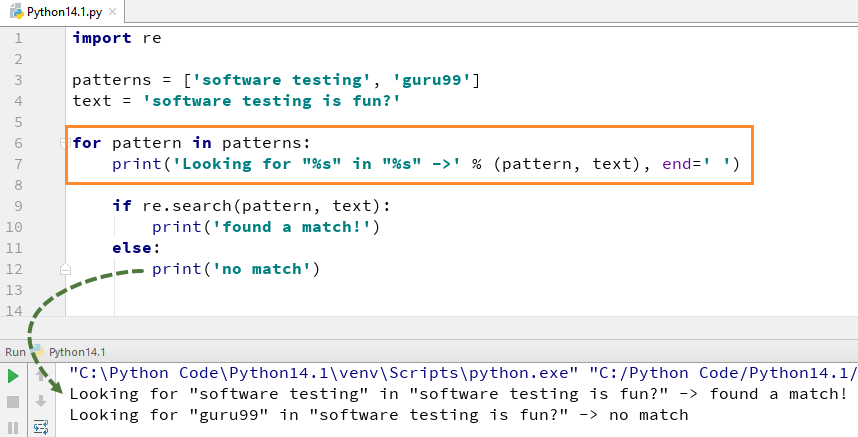
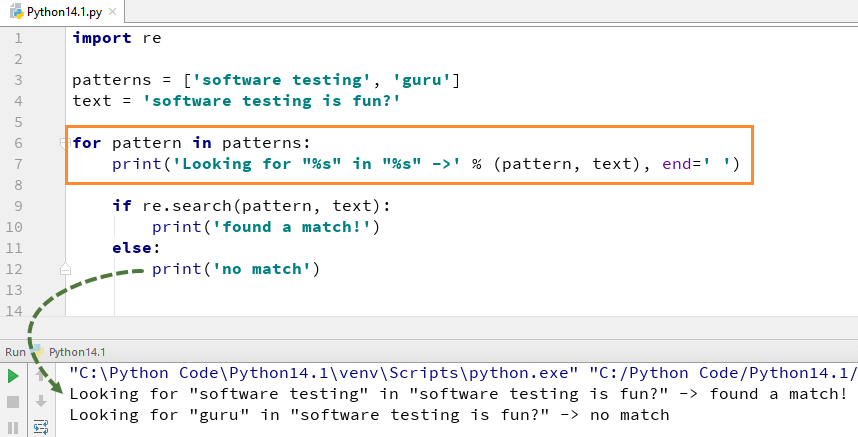
updated images and post

Changed region(s): [[0.2727, 0.9222, 0.7879, 0.9817], [0.5152, 0.1487, 0.5455, 0.2082]]

diff --git a/_posts/python/basictutorials/2019-09-30-Pythonlesson16.html b/_posts/python/basictutorials/2019-09-30-Pythonlesson16.html
@@ -137,15 +137,15 @@ discussion_id: 2019-09-30-PythonExpressions
             </ul>
             <p>Here we will see an example of how we can use w+ and ^ expression in our code. We cover re.findall
                 function later in this tutorial but for a while we simply focus on \w+ and \^ expression. </p>
-            <p> For example, for our string "guru99, education is fun" if we execute the code with w+ and^, it will give
-                the output "guru99". </p>
+            <p> For example, for our string "guru, education is fun" if we execute the code with w+ and^, it will give
+                the output "guru". </p>
             <p style="text-align: center; "><a href="{{site.url}}{{site.baseurl}}/img/python/tutorial/16/Python14.1.png"
                     class="jh-image-popup-colorbox cboxElement"><img
                         title="Python Regular Expressions: Complete Tutorial"
                         alt="Python Regex Tutorial: re.match(),re.search(), re.findall(), Flags"
                         src="{{site.url}}{{site.baseurl}}/img/python/tutorial/16/Python14.1.png"></a> </p>
             <pre class="code-toolbar"><code><code>import re
-         xx = "guru99,education is fun"
+         xx = "guru,education is fun"
          r1 = re.findall(r"^\w+",xx)
          print(r1)</code></pre>
             <p>Remember, if you remove +sign from the w+, the output will change, and it will only give the first
@@ -175,7 +175,7 @@ discussion_id: 2019-09-30-PythonExpressions
                 Python like \d,\D,$,\.,\b, etc. </p>
             <p>Here is the complete code </p>
             <pre class="code-toolbar"><code><code>import re
-         xx = "guru99,education is fun"
+         xx = "guru,education is fun"
          r1 = re.findall(r"^\w+", xx)
          print((re.split(r'\s','we are splitting the words')))
          print((re.split(r's','split the words')))</code></pre>
@@ -213,11 +213,11 @@ discussion_id: 2019-09-30-PythonExpressions
                         title="Python Regular Expressions: Complete Tutorial"
                         alt="Python Regex Tutorial: re.match(),re.search(), re.findall(), Flags"
                         src="{{site.url}}{{site.baseurl}}/img/python/tutorial/16/Python14.5.png"></a> </p>
-            <p>For example here we look for two literal strings "Software testing" "guru99", in a text string
+            <p>For example here we look for two literal strings "Software testing" "guru", in a text string
                 "Software<a href="/software-testing.html"
                     onclick="ga('send', 'event', 'internal_linking', 'Python Regex Tutorial: re.match(),re.search(), re.findall(), Flags', 'Python Regex Tutorial: re.match(),re.search(), re.findall(), Flags');">
                     Testing </a>is fun". For "software testing" we found the match hence it returns the output as "found
-                a match", while for word "guru99" we could not found in string hence it returns the output as "No
+                a match", while for word "guru" we could not found in string hence it returns the output as "No
                 match". </p>
             <h2><a id="7"></a>Using re.findall for text</h2>
             <p>Re.findall() module is used when you want to iterate over the lines of the file, it will return a list of
@@ -232,13 +232,13 @@ discussion_id: 2019-09-30-PythonExpressions
             <p>Here is the complete code </p>
             <pre class="code-toolbar"><code><code>import re
          
-         list = ["guru99 get", "guru99 give", "guru Selenium"]
+         list = ["guru get", "guru give", "guru Selenium"]
          for element in list:
              z = re.match("(g\w+)\W(g\w+)", element)
          if z:
              print((z.groups()))
              
-         patterns = ['software testing', 'guru99']
+         patterns = ['software testing', 'guru']
          text = 'software testing is fun?'
          for pattern in patterns:
              print('Looking for "%s" in "%s" -&gt;' % (pattern, text), end=' ')
@@ -246,8 +246,8 @@ discussion_id: 2019-09-30-PythonExpressions
                  print('found a match!')
          else:
              print('no match')
-         abc = <span id="cloakb423dbe997bf5ce49a8608254902d46c"><a href="mailto:'guru99@google.com">'guru99@google.com</a></span><script src="/media/plg_jchoptimize/cache/js/b6bec3fdcab9c764d07ac6eb67aa12a4_0.js"></script>
-             <script>document.getElementById('cloakb423dbe997bf5ce49a8608254902d46c').innerHTML = ''; var prefix = '&#109;a' + 'i&#108;' + '&#116;o'; var path = 'hr' + 'ef' + '='; var addyb423dbe997bf5ce49a8608254902d46c = '&#039;g&#117;r&#117;99' + '&#64;'; addyb423dbe997bf5ce49a8608254902d46c = addyb423dbe997bf5ce49a8608254902d46c + 'g&#111;&#111;gl&#101;' + '&#46;' + 'c&#111;m'; var addy_textb423dbe997bf5ce49a8608254902d46c = '&#039;g&#117;r&#117;99' + '&#64;' + 'g&#111;&#111;gl&#101;' + '&#46;' + 'c&#111;m'; document.getElementById('cloakb423dbe997bf5ce49a8608254902d46c').innerHTML += '<a ' + path + '\'' + prefix + ':' + addyb423dbe997bf5ce49a8608254902d46c + '\'>' + addy_textb423dbe997bf5ce49a8608254902d46c + '<\/a>';</script>, <span id="cloak28a8928c51f23b3066d076110cb02d1d"><a href="mailto:careerguru99@hotmail.com">careerguru99@hotmail.com</a></span><script>document.getElementById('cloak28a8928c51f23b3066d076110cb02d1d').innerHTML = ''; var prefix = '&#109;a' + 'i&#108;' + '&#116;o'; var path = 'hr' + 'ef' + '='; var addy28a8928c51f23b3066d076110cb02d1d = 'c&#97;r&#101;&#101;rg&#117;r&#117;99' + '&#64;'; addy28a8928c51f23b3066d076110cb02d1d = addy28a8928c51f23b3066d076110cb02d1d + 'h&#111;tm&#97;&#105;l' + '&#46;' + 'c&#111;m'; var addy_text28a8928c51f23b3066d076110cb02d1d = 'c&#97;r&#101;&#101;rg&#117;r&#117;99' + '&#64;' + 'h&#111;tm&#97;&#105;l' + '&#46;' + 'c&#111;m'; document.getElementById('cloak28a8928c51f23b3066d076110cb02d1d').innerHTML += '<a ' + path + '\'' + prefix + ':' + addy28a8928c51f23b3066d076110cb02d1d + '\'>' + addy_text28a8928c51f23b3066d076110cb02d1d + '<\/a>';</script>, <span id="cloak1b474f05b5758d526118ba6d92a65a9b"><a href="mailto:users@yahoomail.com">users@yahoomail.com</a></span><script>document.getElementById('cloak1b474f05b5758d526118ba6d92a65a9b').innerHTML = ''; var prefix = '&#109;a' + 'i&#108;' + '&#116;o'; var path = 'hr' + 'ef' + '='; var addy1b474f05b5758d526118ba6d92a65a9b = '&#117;s&#101;rs' + '&#64;'; addy1b474f05b5758d526118ba6d92a65a9b = addy1b474f05b5758d526118ba6d92a65a9b + 'y&#97;h&#111;&#111;m&#97;&#105;l' + '&#46;' + 'c&#111;m'; var addy_text1b474f05b5758d526118ba6d92a65a9b = '&#117;s&#101;rs' + '&#64;' + 'y&#97;h&#111;&#111;m&#97;&#105;l' + '&#46;' + 'c&#111;m'; document.getElementById('cloak1b474f05b5758d526118ba6d92a65a9b').innerHTML += '<a ' + path + '\'' + prefix + ':' + addy1b474f05b5758d526118ba6d92a65a9b + '\'>' + addy_text1b474f05b5758d526118ba6d92a65a9b + '<\/a>';</script>'
+         abc = <span id="cloakb423dbe997bf5ce49a8608254902d46c"><a href="mailto:'guru@google.com">'guru@google.com</a></span><script src="/media/plg_jchoptimize/cache/js/b6bec3fdcab9c764d07ac6eb67aa12a4_0.js"></script>
+             <script>document.getElementById('cloakb423dbe997bf5ce49a8608254902d46c').innerHTML = ''; var prefix = '&#109;a' + 'i&#108;' + '&#116;o'; var path = 'hr' + 'ef' + '='; var addyb423dbe997bf5ce49a8608254902d46c = '&#039;g&#117;r&#117;99' + '&#64;'; addyb423dbe997bf5ce49a8608254902d46c = addyb423dbe997bf5ce49a8608254902d46c + 'g&#111;&#111;gl&#101;' + '&#46;' + 'c&#111;m'; var addy_textb423dbe997bf5ce49a8608254902d46c = '&#039;g&#117;r&#117;99' + '&#64;' + 'g&#111;&#111;gl&#101;' + '&#46;' + 'c&#111;m'; document.getElementById('cloakb423dbe997bf5ce49a8608254902d46c').innerHTML += '<a ' + path + '\'' + prefix + ':' + addyb423dbe997bf5ce49a8608254902d46c + '\'>' + addy_textb423dbe997bf5ce49a8608254902d46c + '<\/a>';</script>, <span id="cloak28a8928c51f23b3066d076110cb02d1d"><a href="mailto:careerguru@hotmail.com">careerguru@hotmail.com</a></span><script>document.getElementById('cloak28a8928c51f23b3066d076110cb02d1d').innerHTML = ''; var prefix = '&#109;a' + 'i&#108;' + '&#116;o'; var path = 'hr' + 'ef' + '='; var addy28a8928c51f23b3066d076110cb02d1d = 'c&#97;r&#101;&#101;rg&#117;r&#117;99' + '&#64;'; addy28a8928c51f23b3066d076110cb02d1d = addy28a8928c51f23b3066d076110cb02d1d + 'h&#111;tm&#97;&#105;l' + '&#46;' + 'c&#111;m'; var addy_text28a8928c51f23b3066d076110cb02d1d = 'c&#97;r&#101;&#101;rg&#117;r&#117;99' + '&#64;' + 'h&#111;tm&#97;&#105;l' + '&#46;' + 'c&#111;m'; document.getElementById('cloak28a8928c51f23b3066d076110cb02d1d').innerHTML += '<a ' + path + '\'' + prefix + ':' + addy28a8928c51f23b3066d076110cb02d1d + '\'>' + addy_text28a8928c51f23b3066d076110cb02d1d + '<\/a>';</script>, <span id="cloak1b474f05b5758d526118ba6d92a65a9b"><a href="mailto:users@yahoomail.com">users@yahoomail.com</a></span><script>document.getElementById('cloak1b474f05b5758d526118ba6d92a65a9b').innerHTML = ''; var prefix = '&#109;a' + 'i&#108;' + '&#116;o'; var path = 'hr' + 'ef' + '='; var addy1b474f05b5758d526118ba6d92a65a9b = '&#117;s&#101;rs' + '&#64;'; addy1b474f05b5758d526118ba6d92a65a9b = addy1b474f05b5758d526118ba6d92a65a9b + 'y&#97;h&#111;&#111;m&#97;&#105;l' + '&#46;' + 'c&#111;m'; var addy_text1b474f05b5758d526118ba6d92a65a9b = '&#117;s&#101;rs' + '&#64;' + 'y&#97;h&#111;&#111;m&#97;&#105;l' + '&#46;' + 'c&#111;m'; document.getElementById('cloak1b474f05b5758d526118ba6d92a65a9b').innerHTML += '<a ' + path + '\'' + prefix + ':' + addy1b474f05b5758d526118ba6d92a65a9b + '\'>' + addy_text1b474f05b5758d526118ba6d92a65a9b + '<\/a>';</script>'
          emails = re.findall(r'[\w\.-]+@[\w\.-]+', abc)
          for email in emails:
              print(email)</code></pre>
@@ -311,7 +311,7 @@ discussion_id: 2019-09-30-PythonExpressions
          print(k1)
          print(k2)</code></pre>
             <ul>
-                <li>We declared the variable xx for string " guru99…. careerguru99….selenium"</li>
+                <li>We declared the variable xx for string " guru…. careerguru….selenium"</li>
                 <li>Run the code without using flags multiline, it gives the output only 'g' from the lines</li>
                 <li>Run the code with flag "multiline", when you print 'k2' it gives the output as 'g', 'c' and 's'
                 </li>
@@ -323,13 +323,13 @@ discussion_id: 2019-09-30-PythonExpressions
             <p>Above codes are Python 3 examples, If you want to run in Python 2 please consider following code. </p>
             <pre class="code-toolbar"><code><code># Example of w+ and ^ Expression
          import re
-         xx = "guru99,education is fun"
+         xx = "guru,education is fun"
          r1 = re.findall(r"^\w+",xx)
          print r1
          
          # Example of \s expression in re.split function
          import re
-         xx = "guru99,education is fun"
+         xx = "guru,education is fun"
          r1 = re.findall(r"^\w+", xx)
          print (re.split(r'\s','we are splitting the words'))
          print (re.split(r's','split the words'))
@@ -337,13 +337,13 @@ discussion_id: 2019-09-30-PythonExpressions
          # Using re.findall for text
          import re
          
-         list = ["guru99 get", "guru99 give", "guru Selenium"]
+         list = ["guru get", "guru give", "guru Selenium"]
          for element in list:
              z = re.match("(g\w+)\W(g\w+)", element)
          if z:
              print(z.groups())
              
-         patterns = ['software testing', 'guru99']
+         patterns = ['software testing', 'guru']
          text = 'software testing is fun?'
          for pattern in patterns:
              print 'Looking for "%s" in "%s" -&gt;' % (pattern, text),
@@ -351,15 +351,15 @@ discussion_id: 2019-09-30-PythonExpressions
                  print 'found a match!'
          else:
              print 'no match'
-         abc = <span id="cloak7e3c445ef7094b61fb031021bd034781"><a href="mailto:'guru99@google.com">'guru99@google.com</a></span><script>document.getElementById('cloak7e3c445ef7094b61fb031021bd034781').innerHTML = ''; var prefix = '&#109;a' + 'i&#108;' + '&#116;o'; var path = 'hr' + 'ef' + '='; var addy7e3c445ef7094b61fb031021bd034781 = '&#039;g&#117;r&#117;99' + '&#64;'; addy7e3c445ef7094b61fb031021bd034781 = addy7e3c445ef7094b61fb031021bd034781 + 'g&#111;&#111;gl&#101;' + '&#46;' + 'c&#111;m'; var addy_text7e3c445ef7094b61fb031021bd034781 = '&#039;g&#117;r&#117;99' + '&#64;' + 'g&#111;&#111;gl&#101;' + '&#46;' + 'c&#111;m'; document.getElementById('cloak7e3c445ef7094b61fb031021bd034781').innerHTML += '<a ' + path + '\'' + prefix + ':' + addy7e3c445ef7094b61fb031021bd034781 + '\'>' + addy_text7e3c445ef7094b61fb031021bd034781 + '<\/a>';</script>, <span id="cloakeea47a6c47b3606d4442b8620b6630d0"><a href="mailto:careerguru99@hotmail.com">careerguru99@hotmail.com</a></span><script>document.getElementById('cloakeea47a6c47b3606d4442b8620b6630d0').innerHTML = ''; var prefix = '&#109;a' + 'i&#108;' + '&#116;o'; var path = 'hr' + 'ef' + '='; var addyeea47a6c47b3606d4442b8620b6630d0 = 'c&#97;r&#101;&#101;rg&#117;r&#117;99' + '&#64;'; addyeea47a6c47b3606d4442b8620b6630d0 = addyeea47a6c47b3606d4442b8620b6630d0 + 'h&#111;tm&#97;&#105;l' + '&#46;' + 'c&#111;m'; var addy_texteea47a6c47b3606d4442b8620b6630d0 = 'c&#97;r&#101;&#101;rg&#117;r&#117;99' + '&#64;' + 'h&#111;tm&#97;&#105;l' + '&#46;' + 'c&#111;m'; document.getElementById('cloakeea47a6c47b3606d4442b8620b6630d0').innerHTML += '<a ' + path + '\'' + prefix + ':' + addyeea47a6c47b3606d4442b8620b6630d0 + '\'>' + addy_texteea47a6c47b3606d4442b8620b6630d0 + '<\/a>';</script>, <span id="cloak0fe0bb819b137f4365c98714691287ca"><a href="mailto:users@yahoomail.com">users@yahoomail.com</a></span><script>document.getElementById('cloak0fe0bb819b137f4365c98714691287ca').innerHTML = ''; var prefix = '&#109;a' + 'i&#108;' + '&#116;o'; var path = 'hr' + 'ef' + '='; var addy0fe0bb819b137f4365c98714691287ca = '&#117;s&#101;rs' + '&#64;'; addy0fe0bb819b137f4365c98714691287ca = addy0fe0bb819b137f4365c98714691287ca + 'y&#97;h&#111;&#111;m&#97;&#105;l' + '&#46;' + 'c&#111;m'; var addy_text0fe0bb819b137f4365c98714691287ca = '&#117;s&#101;rs' + '&#64;' + 'y&#97;h&#111;&#111;m&#97;&#105;l' + '&#46;' + 'c&#111;m'; document.getElementById('cloak0fe0bb819b137f4365c98714691287ca').innerHTML += '<a ' + path + '\'' + prefix + ':' + addy0fe0bb819b137f4365c98714691287ca + '\'>' + addy_text0fe0bb819b137f4365c98714691287ca + '<\/a>';</script>'
+         abc = <span id="cloak7e3c445ef7094b61fb031021bd034781"><a href="mailto:'guru@google.com">'guru@google.com</a></span><script>document.getElementById('cloak7e3c445ef7094b61fb031021bd034781').innerHTML = ''; var prefix = '&#109;a' + 'i&#108;' + '&#116;o'; var path = 'hr' + 'ef' + '='; var addy7e3c445ef7094b61fb031021bd034781 = '&#039;g&#117;r&#117;99' + '&#64;'; addy7e3c445ef7094b61fb031021bd034781 = addy7e3c445ef7094b61fb031021bd034781 + 'g&#111;&#111;gl&#101;' + '&#46;' + 'c&#111;m'; var addy_text7e3c445ef7094b61fb031021bd034781 = '&#039;g&#117;r&#117;99' + '&#64;' + 'g&#111;&#111;gl&#101;' + '&#46;' + 'c&#111;m'; document.getElementById('cloak7e3c445ef7094b61fb031021bd034781').innerHTML += '<a ' + path + '\'' + prefix + ':' + addy7e3c445ef7094b61fb031021bd034781 + '\'>' + addy_text7e3c445ef7094b61fb031021bd034781 + '<\/a>';</script>, <span id="cloakeea47a6c47b3606d4442b8620b6630d0"><a href="mailto:careerguru@hotmail.com">careerguru@hotmail.com</a></span><script>document.getElementById('cloakeea47a6c47b3606d4442b8620b6630d0').innerHTML = ''; var prefix = '&#109;a' + 'i&#108;' + '&#116;o'; var path = 'hr' + 'ef' + '='; var addyeea47a6c47b3606d4442b8620b6630d0 = 'c&#97;r&#101;&#101;rg&#117;r&#117;99' + '&#64;'; addyeea47a6c47b3606d4442b8620b6630d0 = addyeea47a6c47b3606d4442b8620b6630d0 + 'h&#111;tm&#97;&#105;l' + '&#46;' + 'c&#111;m'; var addy_texteea47a6c47b3606d4442b8620b6630d0 = 'c&#97;r&#101;&#101;rg&#117;r&#117;99' + '&#64;' + 'h&#111;tm&#97;&#105;l' + '&#46;' + 'c&#111;m'; document.getElementById('cloakeea47a6c47b3606d4442b8620b6630d0').innerHTML += '<a ' + path + '\'' + prefix + ':' + addyeea47a6c47b3606d4442b8620b6630d0 + '\'>' + addy_texteea47a6c47b3606d4442b8620b6630d0 + '<\/a>';</script>, <span id="cloak0fe0bb819b137f4365c98714691287ca"><a href="mailto:users@yahoomail.com">users@yahoomail.com</a></span><script>document.getElementById('cloak0fe0bb819b137f4365c98714691287ca').innerHTML = ''; var prefix = '&#109;a' + 'i&#108;' + '&#116;o'; var path = 'hr' + 'ef' + '='; var addy0fe0bb819b137f4365c98714691287ca = '&#117;s&#101;rs' + '&#64;'; addy0fe0bb819b137f4365c98714691287ca = addy0fe0bb819b137f4365c98714691287ca + 'y&#97;h&#111;&#111;m&#97;&#105;l' + '&#46;' + 'c&#111;m'; var addy_text0fe0bb819b137f4365c98714691287ca = '&#117;s&#101;rs' + '&#64;' + 'y&#97;h&#111;&#111;m&#97;&#105;l' + '&#46;' + 'c&#111;m'; document.getElementById('cloak0fe0bb819b137f4365c98714691287ca').innerHTML += '<a ' + path + '\'' + prefix + ':' + addy0fe0bb819b137f4365c98714691287ca + '\'>' + addy_text0fe0bb819b137f4365c98714691287ca + '<\/a>';</script>'
          emails = re.findall(r'[\w\.-]+@[\w\.-]+', abc)
          for email in emails:
              print email
          
          # Example of re.M or Multiline Flags
          import re
-         xx = """guru99 
-         careerguru99	
+         xx = """guru
+         careerguru	
          selenium"""
          k1 = re.findall(r"^\w", xx)
          k2 = re.findall(r"^\w", xx, re.MULTILINE)

diff --git a/_site/blog/Pythonlesson16.html b/_site/blog/Pythonlesson16.html
@@ -243,14 +243,14 @@
             <p>Here we will see an example of how we can use w+ and ^ expression in our code. We cover re.findall
                 function later in this tutorial but for a while we simply focus on \w+ and \^ expression. </p>
             <p> For example, for our string "guru99, education is fun" if we execute the code with w+ and^, it will give
-                the output "guru99". </p>
+                the output "guru". </p>
             <p style="text-align: center; "><a href="http://localhost:4000/img/python/tutorial/16/Python14.1.png"
                     class="jh-image-popup-colorbox cboxElement"><img
                         title="Python Regular Expressions: Complete Tutorial"
                         alt="Python Regex Tutorial: re.match(),re.search(), re.findall(), Flags"
                         src="http://localhost:4000/img/python/tutorial/16/Python14.1.png"></a> </p>
             <pre class="code-toolbar"><code><code>import re
-         xx = "guru99,education is fun"
+         xx = "guru,education is fun"
          r1 = re.findall(r"^\w+",xx)
          print(r1)</code></pre>
             <p>Remember, if you remove +sign from the w+, the output will change, and it will only give the first
